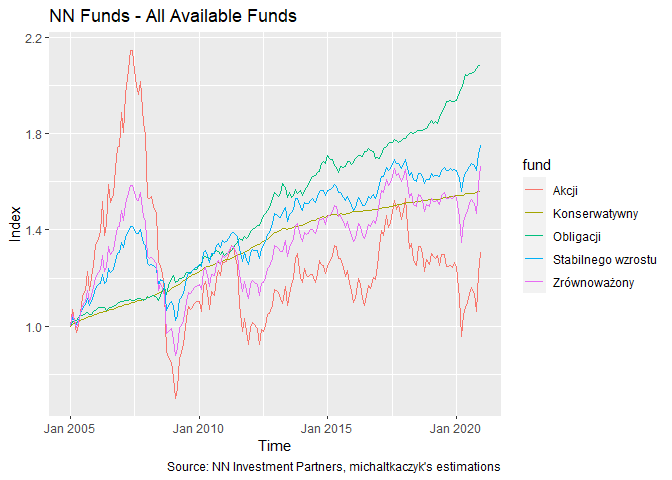
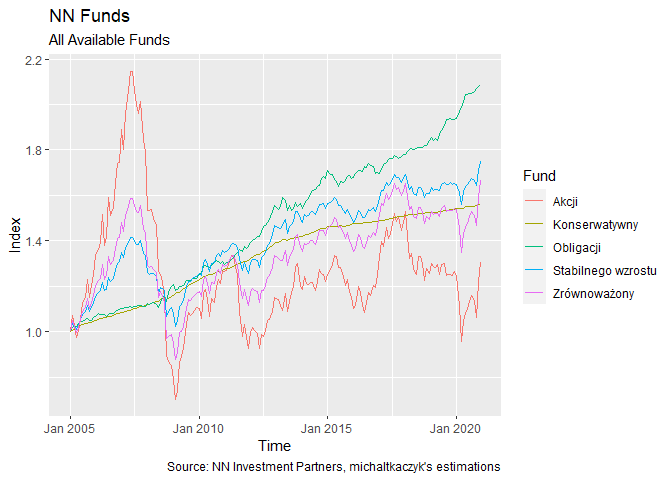
Clean up all plots

diff --git a/main.md b/main.md
@@ -38,8 +38,10 @@ These are all the funds used in the analysis.
 ggplot(funds_data, aes(x = date, y = value, color = fund)) +
     geom_line() +
     labs(
-        title = "NN Funds - All Available Funds",
-        caption = "Source: NN Investment Partners, michaltkaczyk's estimations") +
+        title = "NN Funds",
+        subtitle = "All Available Funds",
+        caption = "Source: NN Investment Partners, michaltkaczyk's estimations",
+        color = "Fund") +
     xlab("Time") +
     ylab("Index")
 ```
@@ -116,8 +118,10 @@ funds_data_long <- funds_data %>%
 ggplot(funds_data_long, aes(x = date, y = value, color = fund)) +
     geom_line() +
     labs(
-        title = "NN Funds - All Available Funds",
-        caption = "Source: NN Investment Partners, michaltkaczyk's estimations") +
+        title = "NN Funds",
+        subtitle = "All Available Funds",
+        caption = "Source: NN Investment Partners, michaltkaczyk's estimations",
+        color = "Fund") +
     xlab("Time") +
     ylab("Index")
 ```
@@ -158,13 +162,20 @@ portfolio_comparison <- manual_portfolios_results %>%
 ggplot(portfolio_comparison, aes(x = date, y = value, color = portfolio)) +
     geom_line() +
     labs(
-        title = paste("Performance of Manually Selected Portfolios Between", START_DAY, "and", END_DAY),
-        caption = "Source: NN Investment Partners, michaltkaczyk's estimations") +
+        title = "Performance of Manually Selected NN Portfolios",
+        subtitle = paste("Between", START_DAY, "and", END_DAY),
+        caption = "Source: NN Investment Partners, michaltkaczyk's estimations",
+        color = "Portfolio") +
     xlab("Time") +
     ylab("Index")
 ```
 
 ![](main_files/figure-gfm/unnamed-chunk-12-1.png)<!-- -->
+<<<<<<< Updated upstream
+=======
+<<<<<<< Updated upstream
+=======
+>>>>>>> Stashed changes
 
 What if we tried randomly generating the portfolios?
 
@@ -499,8 +510,15 @@ random_portfolio_comparison <- random_portfolios_results %>%
 ggplot(random_portfolio_comparison, aes(x = date, y = value, group = portfolio)) +
     geom_line(alpha = 0.05) +
     labs(
+<<<<<<< Updated upstream
         title = paste("Performance of Randomly Selected Portfolios Between", START_DAY, "and", END_DAY),
         caption = "Source: NN Investment Partners, michaltkaczyk's estimations") +
+=======
+        title = "Performance of Randomly Selected NN Portfolios",
+        subtitle = paste("Between", START_DAY, "and", END_DAY),
+        caption = "Source: NN Investment Partners, michaltkaczyk's estimations",
+        color = "Portfolio") +
+>>>>>>> Stashed changes
     xlab("Time") +
     ylab("Index")
 ```
@@ -529,9 +547,23 @@ random_portfolios_results_avg <-
     ## * NA -> ...3
 
 ``` r
+<<<<<<< Updated upstream
 random_portfolios_results_avg %>%
     ggplot(aes(risk, return)) +
     geom_point()
 ```
 
 ![](main_files/figure-gfm/unnamed-chunk-15-1.png)<!-- -->
+=======
+ggplot(random_portfolios_results_avg, aes(x = risk, y = return)) +
+    geom_point() +
+    labs(
+        title = "Average Performance of Randomly Selected NN Portfolios",
+        caption = "Source: NN Investment Partners, michaltkaczyk's estimations") +
+    xlab("Risk") +
+    ylab("Return")
+```
+
+![](main_files/figure-gfm/unnamed-chunk-15-1.png)<!-- -->
+>>>>>>> Stashed changes
+>>>>>>> Stashed changes
